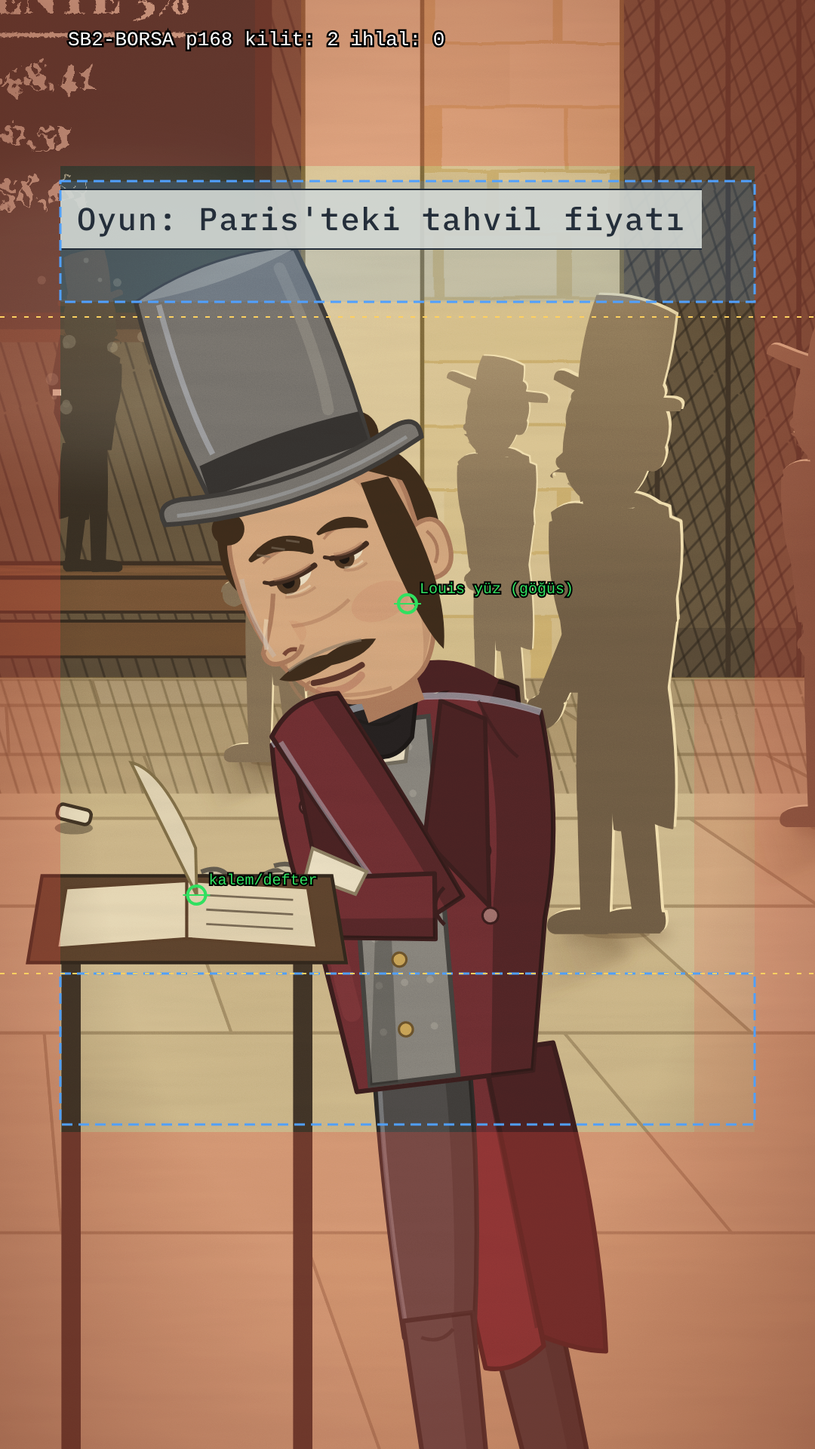
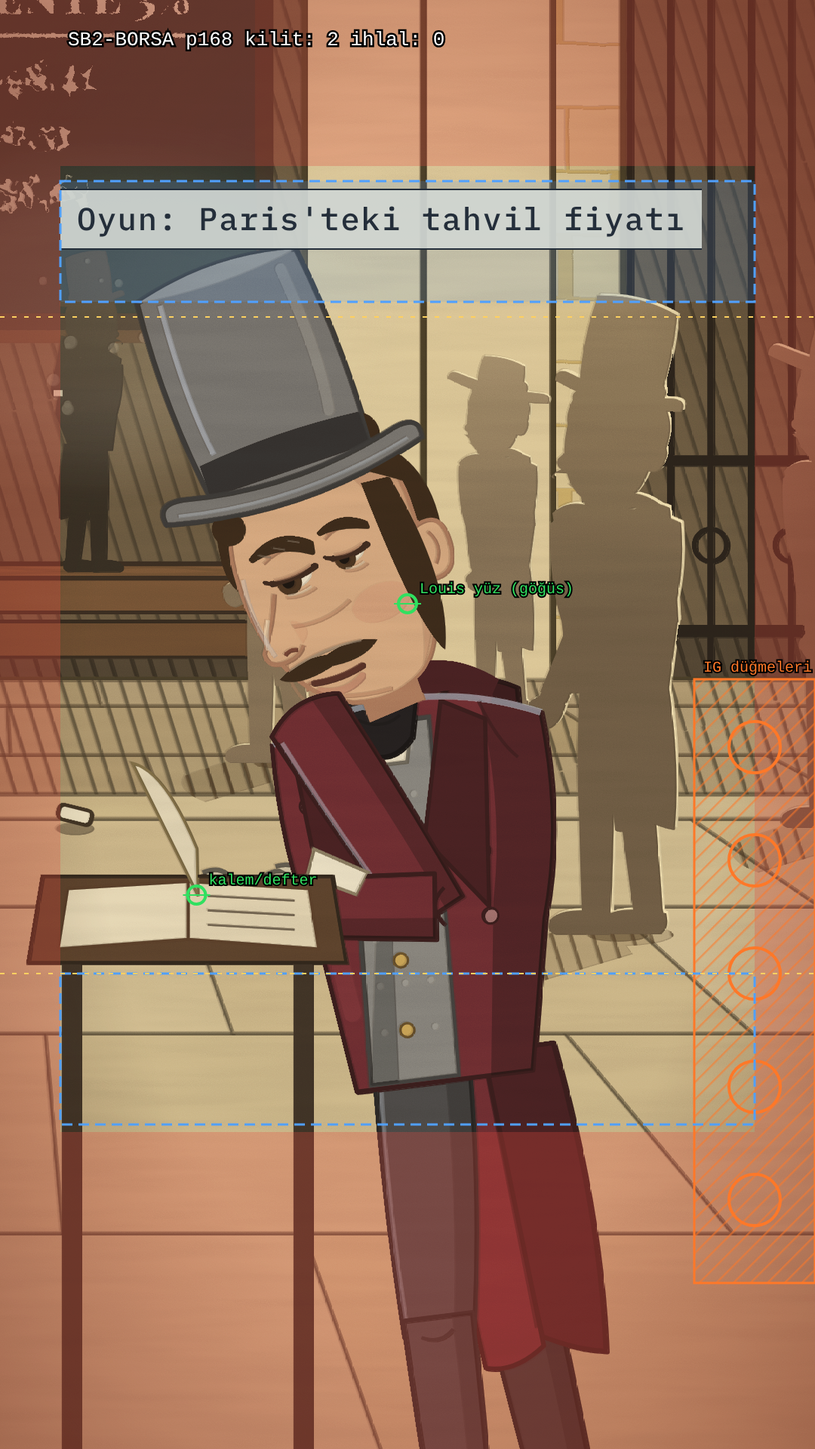
A4 bölüm 1: gravür dili kalibrasyonu, parmaklık, araç/arşiv (motion)
Claude-Session: https://claude.ai/code/session_016TQpGYPviqqYuFeBgNMpFi

diff --git a/src/doku/GuvenliAlan.tsx b/src/doku/GuvenliAlan.tsx
@@ -5,20 +5,23 @@ import { P } from "./sabitler";
 // ===== Güvenli alan + yazı bandı + Instagram arayüzü bindirmesi ve kilit nokta denetimi (eleştiri A, sistemik 3) =====
 // Sahne `guvenli` prop'u ile render edilince bindirme çizilir; kilit noktalar (ayak, temas, kurulum nesnesi, yüz…)
 // otomatik denetlenir. İhlaller kırmızı işaret + sol üstte liste olarak karede görünür ve konsola yazılır.
-export const GUVENLI = { ust: 220, alt: 420, yan: 80, igSag: 160, igSagY: [900, 1500] as [number, number] };
+// igSag: Instagram sağ alt eylem düğmeleri sütunu (beğeni/yorum/paylaş/kaydet/ses) — x 920–1080, y 900–1700 ayrı KİLİT bölgesi
+// (A4, elestiri-C SC3: alt 420 bandına taşan kısmı da işaretlenir; yüz de bu sütuna girmez — göz düğmenin altında kalır).
+export const GUVENLI = { ust: 220, alt: 420, yan: 80, igSag: 160, igSagY: [900, 1700] as [number, number] };
 export const BANTLAR = { ust: [240, 400] as [number, number], alt: [1290, 1490] as [number, number] };
 
 export type KilitTur = "ayak" | "temas" | "kurulum" | "yuz" | "dokunus" | "yazi";
 export type KilitNokta = { ad: string; p: P; tur: KilitTur };
 
-// Kurallar: tüm kilit noktalar y 220–1500, x 80–1000; ayak/temas/kurulum/dokunuş IG sağ sütunda (x>920, y 900–1500) olmaz;
+// Kurallar: tüm kilit noktalar y 220–1500, x 80–1000; ayak/temas/kurulum/dokunuş/YÜZ IG sağ düğme sütununda (x>920, y 900–1700) olmaz;
 // aktif altyazı/yazı bandına düşmez (yazı türü hariç).
 export const kilitKontrol = (k: KilitNokta, aktifBant: "ust" | "alt" | null): string | null => {
   const [x, y] = k.p;
+  // IG düğme sütunu önce: alt banda ya da yan paya da düşse asıl neden bu (ayrı ad)
+  if (k.tur !== "yazi" && x > 1080 - GUVENLI.igSag && y > GUVENLI.igSagY[0] && y < GUVENLI.igSagY[1]) return `${k.ad}: IG sağ düğme sütunu (x ${Math.round(x)}, y ${Math.round(y)})`;
   if (y < GUVENLI.ust) return `${k.ad}: üst 220 içinde (y ${Math.round(y)})`;
   if (y > 1920 - GUVENLI.alt) return `${k.ad}: alt 420 içinde (y ${Math.round(y)})`;
   if (x < GUVENLI.yan || x > 1080 - GUVENLI.yan) return `${k.ad}: yan 80 içinde (x ${Math.round(x)})`;
-  if (k.tur !== "yazi" && k.tur !== "yuz" && x > 1080 - GUVENLI.igSag && y > GUVENLI.igSagY[0] && y < GUVENLI.igSagY[1]) return `${k.ad}: IG sağ buton sütunu (x ${Math.round(x)})`;
   if (k.tur !== "yazi" && aktifBant) { const [a, b] = BANTLAR[aktifBant]; if (y > a && y < b) return `${k.ad}: ${aktifBant === "ust" ? "ÜST" : "ALT"} yazı bandında (y ${Math.round(y)})`; }
   return null;
 };
@@ -36,7 +39,11 @@ export const GuvenliAlan: React.FC<{ noktalar?: KilitNokta[]; aktifBant?: "ust" 
         <rect x={0} y={1920 - GUVENLI.alt} width={1080} height={GUVENLI.alt} fill={kirmizi} />
         <rect x={0} y={GUVENLI.ust} width={GUVENLI.yan} height={1920 - GUVENLI.ust - GUVENLI.alt} fill={kirmizi} />
         <rect x={1080 - GUVENLI.yan} y={GUVENLI.ust} width={GUVENLI.yan} height={1920 - GUVENLI.ust - GUVENLI.alt} fill={kirmizi} />
-        <rect x={1080 - GUVENLI.igSag} y={GUVENLI.igSagY[0]} width={GUVENLI.igSag - GUVENLI.yan} height={GUVENLI.igSagY[1] - GUVENLI.igSagY[0]} fill="rgba(229,72,60,0.16)" />
+        {/* IG sağ düğme sütunu: tam genişlik (920–1080) + düğme yerleri; çizgili, ayrı kilit bölgesi */}
+        <defs><pattern id="igSutun" patternUnits="userSpaceOnUse" width={16} height={16} patternTransform="rotate(45)"><line x1={0} y1={0} x2={0} y2={16} stroke="rgba(255,120,40,0.55)" strokeWidth={5} /></pattern></defs>
+        <rect x={1080 - GUVENLI.igSag} y={GUVENLI.igSagY[0]} width={GUVENLI.igSag} height={GUVENLI.igSagY[1] - GUVENLI.igSagY[0]} fill="url(#igSutun)" stroke="#ff7828" strokeWidth={3} />
+        {[0, 1, 2, 3, 4].map((i) => <circle key={i} cx={1000} cy={GUVENLI.igSagY[0] + 90 + i * 150} r={34} fill="none" stroke="#ff7828" strokeWidth={4} />)}
+        <text x={1076} y={GUVENLI.igSagY[0] - 10} textAnchor="end" fontFamily="monospace" fontSize={20} fill="#ff7828" stroke="#000" strokeWidth={4} paintOrder="stroke">IG düğmeleri</text>
         {(["ust", "alt"] as const).map((b) => <rect key={b} x={GUVENLI.yan} y={BANTLAR[b][0]} width={1080 - 2 * GUVENLI.yan} height={BANTLAR[b][1] - BANTLAR[b][0]} fill={aktifBant === b ? "rgba(80,160,255,0.16)" : "none"} stroke="#50a0ff" strokeWidth={3} strokeDasharray="14 8" />)}
         <line x1={0} y1={420} x2={1080} y2={420} stroke="#ffd060" strokeWidth={2} strokeDasharray="6 10" />
         <line x1={0} y1={1290} x2={1080} y2={1290} stroke="#ffd060" strokeWidth={2} strokeDasharray="6 10" />

diff --git a/src/doku/Cephe.tsx b/src/doku/Cephe.tsx
@@ -1,6 +1,6 @@
 import React from "react";
 import { Kemer, Maskaron } from "./Kemer";
-import { Tarama } from "./Tarama";
+import { Basamak, Tarama } from "./Tarama";
 import { TasDuvar } from "./TasDuvar";
 import { Derinlik, Esleme, MIMARI_KONTUR, P, ink, karistir, murekkep, poly, rnd, tonla } from "./sabitler";
 
@@ -25,7 +25,9 @@ export const BDX_GECE_PALET: CephePalet = { tasGolge: "#5e5646", cam: "#1b2238",
 export const CepheEv: React.FC<{
   m: Esleme; e: EvTanim; seed: number; derinlik: Derinlik; aci: number; palet?: CephePalet;
   kameraH?: number; yakinSusleme?: boolean; dukkanYazi?: (p0: P, p1: P, p3: P, ad: string, renk: string) => React.ReactNode;
-}> = ({ m, e, seed, derinlik, aci, palet = BDX_GECE_PALET, kameraH = 0.9, yakinSusleme, dukkanYazi }) => {
+  // gölge tarafı cephe (A4 G1, elestiri-C: "gölge tarafı cephe II–III"): gövdeye tek yön tarama; açıklıklar ve süs üstte temiz kalır. Uzakta çizilmez.
+  golgeTaraf?: Basamak | null;
+}> = ({ m, e, seed, derinlik, aci, palet = BDX_GECE_PALET, kameraH = 0.9, yakinSusleme, dukkanYazi, golgeTaraf = null }) => {
   const H = evYukseklik(e);
   const W = e.aks * 3.3;
   const P_ = (x: number, y: number): P => m(x / W, 1 - y / H); // metre → ekran (y yerden)
@@ -47,6 +49,7 @@ export const CepheEv: React.FC<{
   // 1) gövde + (yakında) blok dokusu
   els.push(<polygon key="g" points={poly(dik(0, W, 0, kornis[1]))} fill={tas} />);
   if (!uzak) els.push(<TasDuvar key="td" m={em(0, 0, W, kornis[1])} boyut={[W * 60, kornis[1] * 60]} tip="bdx" taban={tas} seed={seed} derinlik={derinlik} yogunluk={yakin ? 0.6 : 0.4} gozenek={false} blok={[36, 18]} />);
+  if (golgeTaraf && !uzak) els.push(<Tarama key="gt" sekil={dik(0, W, 0, kornis[1])} basamak={golgeTaraf} aci={aci} renk={mur} derinlik={derinlik} seed={seed + 90} />);
   if (att) els.push(<polygon key="att" points={poly(dik(0.25, W - 0.25, att[0], att[1]))} fill={tonla(tas, -0.05)} stroke={mk} strokeWidth={KK.ic * 0.6} />);
   // 2) köşe taşı şeridi (ev sınırı)
   for (let i = 0; i < 12 && !uzak; i++) {

diff --git a/src/bolumler/blanc/sb2/Sb2Borsa.tsx b/src/bolumler/blanc/sb2/Sb2Borsa.tsx
@@ -131,7 +131,7 @@ export const Sb2Borsa: React.FC<{ guvenli?: boolean }> = ({ guvenli }) => {
               <KonturTitreme derinlik="orta" seed={S}>
                 {/* ===== arka avlu cephesi: üst kat (dikdörtgen pencereler) + korniş + arcade sırası ===== */}
                 <polygon points={poly([onCephe(-12, 12), onCephe(12, 12), onCephe(12, 0), onCephe(-12, 0)])} fill={PAL.tas} />
-                <TasDuvar m={(u, v) => onCephe(-12 + 24 * u, 12 - 12 * v)} boyut={[2400, 1200]} tip="bdx" taban={PAL.tas} derz={tonla(PAL.tas, -0.42)} seed={S} derinlik="orta" yogunluk={0.5} gozenek={false} blok={[60, 30]} />
+                <TasDuvar m={(u, v) => onCephe(-12 + 24 * u, 12 - 12 * v)} boyut={[2400, 1200]} tip="bdx" taban={PAL.tas} derz={tonla(PAL.tas, -0.34)} seed={S} derinlik="orta" yogunluk={0.5} gozenek={false} blok={[60, 30]} />
                 {/* üst kat: dikdörtgen pencereler (düz söve, kemer YOK) */}
                 {[-3, -2, -1, 0, 1, 2, 3].map((i) => { const x0 = i * AKS - 0.65; const q = [onCephe(x0, 9.9), onCephe(x0 + 1.3, 9.9), onCephe(x0 + 1.3, 7.7), onCephe(x0, 7.7)]; const s = [onCephe(x0 - 0.15, 10.05), onCephe(x0 + 1.45, 10.05), onCephe(x0 + 1.45, 7.6), onCephe(x0 - 0.15, 7.6)]; return <g key={i}><polygon points={poly(s)} fill={tonla(PAL.tas, 0.05)} stroke={MK} strokeWidth={IC} /><polygon points={poly(q)} fill="#3a3a44" />
                   {/* pencere çevresi (A4 G1): söve iç yüzü sol (güneş sağdan → gölge) + lento altı; koyu cam konturu */}

diff --git a/src/bolumler/blanc/proto/Sokak.tsx b/src/bolumler/blanc/proto/Sokak.tsx
@@ -248,7 +248,7 @@ const CepheBdx: React.FC<{ side: "sol" | "sag" }> = ({ side }) => {
           const W = 400, Hh = 60, mm = [(b[0] - a[0]) / W, (b[1] - a[1]) / W, (d[0] - a[0]) / Hh, (d[1] - a[1]) / Hh, a[0], a[1]];
           return <g transform={`matrix(${mm.map((n) => n.toFixed(4)).join(",")})`}><text x={W / 2} y={Hh * 0.8} textAnchor="middle" fontFamily="'Playfair Display', serif" fontWeight={900} fontSize={Hh * 0.85} fill={renk} textLength={W * 0.8} lengthAdjust="spacingAndGlyphs">{ad}</text></g>;
         };
-        return <CepheEv key={i} m={(u, v) => cephe(q, h.z1 + (h.z2 - h.z1) * u, vTop + (1 - vTop) * v)} e={h.e} seed={DOKU_SEED.sokakBdx * 100 + i * 7 + (side === "sol" ? 0 : 3)} derinlik={derin} aci={SOKAK_TARAMA_ACI} kameraH={0.9} yakinSusleme={h.z1 < 2.3} dukkanYazi={yaz} />;
+        return <CepheEv key={i} m={(u, v) => cephe(q, h.z1 + (h.z2 - h.z1) * u, vTop + (1 - vTop) * v)} e={h.e} seed={DOKU_SEED.sokakBdx * 100 + i * 7 + (side === "sol" ? 0 : 3)} derinlik={derin} aci={SOKAK_TARAMA_ACI} golgeTaraf={side === "sol" ? "II" : null} kameraH={0.9} yakinSusleme={h.z1 < 2.3} dukkanYazi={yaz} />;
       })}
     </g>
   );

diff --git a/src/doku/ArsivKatmani.tsx b/src/doku/ArsivKatmani.tsx
@@ -13,8 +13,9 @@ export type ArsivMod = "gunduz" | "gece" | "kagit";
 
 const GREN_OFSET: [number, number][] = [[0, 0], [211, 87], [97, 301], [389, 173], [43, 419], [257, 29], [151, 233], [331, 367]];
 const AYAR: Record<ArsivMod, { lif: number; gren: number; vinyet: string }> = {
-  gunduz: { lif: 0.12, gren: 0.08, vinyet: "rgba(40,24,8,0.42)" },
-  gece: { lif: 0.08, gren: 0.12, vinyet: "rgba(6,6,14,0.58)" },
+  // A4 G5: kâğıt lifi litografi imzası olarak görünür olsun (gündüz .12→.18, gece .08→.13); boya alanlarında +.04 (11.3)
+  gunduz: { lif: 0.18, gren: 0.08, vinyet: "rgba(40,24,8,0.42)" },
+  gece: { lif: 0.13, gren: 0.12, vinyet: "rgba(6,6,14,0.58)" },
   kagit: { lif: 0.18, gren: 0.08, vinyet: "rgba(40,24,8,0.42)" },
 };
 

diff --git a/tools/sb2_kontrol.py b/tools/sb2_kontrol.py
@@ -5,7 +5,12 @@ tek kontrol sayfası (contact sheet).
 
 Kullanım:  python3 tools/sb2_kontrol.py            (render + ölçüm + sayfa)
            python3 tools/sb2_kontrol.py --olcum    (yalnız ölçüm + sayfa, mevcut PNG'lerden)
-Çıktı:     storyboard-v2/kareler/{ID}-p{N}.png, -360.png, -guvenli.png, renk-olcum.md, A3-sayfa.png
+           python3 tools/sb2_kontrol.py --sadece SB2-BORSA:0,90,168 SB2-SOKAK:0   (yalnız bu kareleri render et)
+           python3 tools/sb2_kontrol.py --gravur   (A4 G6: mood-05 | Borsa | Sokak | Tours, 360 px karşılaştırma sayfası)
+           --asama A4  (sayfa adı: {asama}-sayfa.png; varsayılan A4)
+Çıktı:     storyboard-v2/kareler/{ID}-p{N}.png, -360.png, -guvenli.png, renk-olcum.md, {asama}-sayfa.png, A4-gravur-karsilastirma.png
+Ad kuralı: her kare plan içi kare numarasıyla (-p{N}); NUMARASIZ ad üretilmez (A2 kalıntıları kareler/arsiv/A2/).
+Henüz Root'ta kayıtlı olmayan kompozisyonlar (ör. P04 fare insert) uyarıyla atlanır; yeri protokolde ayrılmıştır.
 """
 import math, os, subprocess, sys, time
 from PIL import Image, ImageDraw, ImageFont
@@ -18,6 +23,9 @@ KARELER = {
     "SB2-TOURS": [(0, "ilk kare"), (54, "T SAK yerleşir"), (60, "paket açık (stil)"), (140, "eldiven bırakma (temas)"), (155, "kapanış")],
     "SB2-SOKAK": [(0, "ilk kare"), (150, "push-in başı"), (189, "göz kırpma (yüz ≥230 px)"), (215, "kapanış")],
     "SB2-BORSA": [(0, "ilk kare + etiketler"), (90, "tebeşir kırılır (temas)"), (102, "sekme 1 (temas)"), (168, "Louis göğüs"), (203, "kapanış (PARIS başlığı)")],
+    # P04 dokunuşu (baston–fare, TAK p108) — elestiri-C SC7. Kompozisyon A4 bölüm 2'de kaydedilecek (FareInsert yeniden kadraj);
+    # kareler P04 plan içi numarasıyla. Kayıtlı değilse atlanır.
+    "SB2-SOKAK-FARE": [(87, "fare ızgaradan çıkar (insert ilk)"), (108, "TAK: baston–taş (temas, dokunuş)"), (138, "kuyruk ızgarada kaybolur (kapanış)")],
 }
 
 # Ölçüm: (kompozisyon, kare, ad, x, y, hedef hex, kaynak, |ΔL| tol, ΔE tol)
@@ -33,6 +41,8 @@ NOKTALAR = [
     ("SB2-BORSA", 0, "avlu taşı (güneşte)", 540, 1500, "#d4c29a", "BORSA avlu taşı", 14, 12),
     ("SB2-BORSA", 0, "portik derin gölge", 140, 820, "#4a3e2c", "BORSA portik", 16, 14),
     ("SB2-BORSA", 90, "kara tahta", 450, 640, "#1f2a26", "tahta", 12, 12),
+    # A4 (elestiri-C 8 · Renk): her mekânda bir gölge (III) bölgesi — gölge iskeleti ton bloğu olarak okunuyor mu
+    ("SB2-BORSA", 0, "galeri tonoz gölgesi (III)", 600, 560, "#4a3e2c", "BORSA portik", 16, 14),
 ]
 
 def hex2rgb(h): h = h.lstrip("#"); return tuple(int(h[i:i + 2], 16) for i in (0, 2, 4))
@@ -60,9 +70,27 @@ def de2000(l1, l2):
 
 def ad(kid, fr, ek=""): return os.path.join(KARE, f"{kid}-p{fr}{ek}.png")
 
+def kayitli():
+    """Root'ta kayıtlı kompozisyon kimlikleri (remotion compositions -q; --log=error ile çıktı boş kalır)."""
+    r = subprocess.run(["npx", "remotion", "compositions", "-q"], cwd=KOK, capture_output=True, text=True)
+    return set(r.stdout.split())
+
+def secim():
+    """--sadece ID:kare,kare ... → {ID: [kare]}; yoksa tüm protokol."""
+    if "--sadece" not in sys.argv: return {k: [f for f, _ in v] for k, v in KARELER.items()}
+    out = {}
+    for a in sys.argv[sys.argv.index("--sadece") + 1:]:
+        if a.startswith("--"): break
+        kid, _, kr = a.partition(":")
+        out[kid] = [int(x) for x in kr.split(",")] if kr else [f for f, _ in KARELER[kid]]
+    return out
+
 def render():
-    for kid, liste in KARELER.items():
-        for fr, _ in liste:
+    var = kayitli()
+    for kid, liste in secim().items():
+        if kid not in var:
+            print(f"UYARI: {kid} Root'ta kayıtlı değil — atlandı (protokolde yeri ayrıldı)", flush=True); continue
+        for fr in liste:
             for ek, props in (("", None), ("-guvenli", '{"guvenli":true}')):
                 cmd = ["npx", "remotion", "still", kid, ad(kid, fr, ek), f"--frame={fr}", "--log=error"]
                 if props: cmd.append(f"--props={props}")
@@ -70,12 +98,13 @@ def render():
             Image.open(ad(kid, fr)).convert("RGB").resize((360, 640), Image.LANCZOS).save(ad(kid, fr, "-360"))
 
 def olc():
-    s = ["# Renk ölçüm tablosu (A3 · derecelendirme sonrası, 9×9 px ortalama)", "",
+    s = ["# Renk ölçüm tablosu (A3/A4 · derecelendirme sonrası, 9×9 px ortalama; TOURS p60 A3 karesi — A4 bölüm 1'de yeniden render edilmedi)", "",
          "Hedef = mekanlar.md malzeme rengi. L* = CIELAB parlaklık; ΔE = CIEDE2000; ΔH° = ölçülen − hedef ton açısı (a*b*), "
          "C* düşükse (< 10, nötr) ton açısı anlamsız → '—'. Geçme: |ΔL*| ≤ tol_L VE ΔE ≤ tol_E VE (nötr değilse) |ΔH°| ≤ 25.", "",
          "| Kompozisyon | Kare | Nokta | (x,y) | Ölçülen | Hedef | Kaynak | L* ölç/hedef | ΔL* | C* ölç/hedef | ΔH° | ΔE00 | Sonuç |",
          "|---|---|---|---|---|---|---|---|---|---|---|---|---|"]
     for kid, fr, nad, x, y, hedef, kaynak, tL, tE in NOKTALAR:
+        if not os.path.exists(ad(kid, fr)): continue
         im = Image.open(ad(kid, fr)).convert("RGB")
         px = [im.getpixel((min(1079, max(0, x + dx)), min(1919, max(0, y + dy)))) for dx in range(-4, 5) for dy in range(-4, 5)]
         ort = tuple(round(sum(p[i] for p in px) / len(px)) for i in range(3))
@@ -88,23 +117,55 @@ def olc():
     open(os.path.join(KARE, "renk-olcum.md"), "w").write("\n".join(s) + "\n")
     print("\n".join(s))
 
-def sayfa():
+def yazi_tipi(n=15):
+    try: return ImageFont.truetype("DejaVuSans.ttf", n)
+    except Exception: return ImageFont.load_default()
+
+def sayfa(asama="A4"):
     W, H, PAD, BAS = 216, 384, 10, 30
-    sut = max(len(v) for v in KARELER.values()) * 2
-    img = Image.new("RGB", (PAD + sut * (W + PAD), PAD + len(KARELER) * (H + BAS + PAD)), (24, 22, 20))
-    d = ImageDraw.Draw(img)
-    try: font = ImageFont.truetype("DejaVuSans.ttf", 15)
-    except Exception: font = ImageFont.load_default()
-    for r, (kid, liste) in enumerate(KARELER.items()):
+    sec = secim()
+    satir = [(kid, [(fr, acik) for fr, acik in KARELER.get(kid, []) if fr in sec.get(kid, []) and os.path.exists(ad(kid, fr))]) for kid in KARELER]
+    satir = [(k, v) for k, v in satir if v]
+    if not satir: return
+    sut = max(len(v) for _, v in satir) * 2
+    img = Image.new("RGB", (PAD + sut * (W + PAD), PAD + len(satir) * (H + BAS + PAD)), (24, 22, 20))
+    d = ImageDraw.Draw(img); font = yazi_tipi()
+    for r, (kid, liste) in enumerate(satir):
         y = PAD + r * (H + BAS + PAD)
         for c, (fr, acik) in enumerate(liste):
             for j, ek in enumerate(("", "-guvenli")):
                 x = PAD + (2 * c + j) * (W + PAD)
-                img.paste(Image.open(ad(kid, fr, ek)).convert("RGB").resize((W, H), Image.LANCZOS), (x, y + BAS))
+                if os.path.exists(ad(kid, fr, ek)): img.paste(Image.open(ad(kid, fr, ek)).convert("RGB").resize((W, H), Image.LANCZOS), (x, y + BAS))
             d.text((PAD + 2 * c * (W + PAD), y + 6), f"{kid} p{fr} · {acik}", fill=(236, 226, 200), font=font)
-    img.save(os.path.join(KARE, "A3-sayfa.png"))
-    print("sayfa:", os.path.join(KARE, "A3-sayfa.png"), img.size)
+    yol = os.path.join(KARE, f"{asama}-sayfa.png"); img.save(yol); print("sayfa:", yol, img.size)
+
+MOOD = os.path.join(KOK, "bolumler/blanc-kardesler/storyboard-v2/mood/mood-05-gravur-sokak-bordeaux.png")
+ARSIV_A3 = os.path.join(KARE, "arsiv/A3")
+
+def gravur_sayfa():
+    """A4 G6 kabul testi: 360 px (telefon) yan yana — üst satır A3 (önce), alt satır A4 (sonra); ilk sütun mood-05.
+    Mood 9:16'ya kırpılmaz, 360 genişliğe ölçeklenir (kâğıt bandı dahil). Altında 2× büyütülmüş ayrıntı şeridi (360'tan, piksel kopyası)."""
+    W, H, PAD, BAS = 360, 640, 14, 34
+    sut = [("mood-05 (yön)", None), ("BORSA p0", ("SB2-BORSA", 0)), ("BORSA p90", ("SB2-BORSA", 90)), ("SOKAK p0", ("SB2-SOKAK", 0)), ("TOURS p0", ("SB2-TOURS", 0))]
+    satirlar = [("A3 (önce)", ARSIV_A3), ("A4 (sonra)", KARE)]
+    img = Image.new("RGB", (PAD + len(sut) * (W + PAD), PAD + len(satirlar) * (H + BAS + PAD) + 60), (24, 22, 20))
+    d = ImageDraw.Draw(img); font = yazi_tipi(18)
+    mood = Image.open(MOOD).convert("RGB"); mood = mood.resize((W, round(mood.height * W / mood.width)), Image.LANCZOS)
+    for r, (etiket, klasor) in enumerate(satirlar):
+        y = PAD + 60 + r * (H + BAS + PAD)
+        for c, (bas, kaynak) in enumerate(sut):
+            x = PAD + c * (W + PAD)
+            if kaynak is None: img.paste(mood.crop((0, (mood.height - H) // 2, W, (mood.height - H) // 2 + H)), (x, y + BAS))
+            else:
+                yol = os.path.join(klasor, f"{kaynak[0]}-p{kaynak[1]}.png")
+                if os.path.exists(yol): img.paste(Image.open(yol).convert("RGB").resize((W, H), Image.LANCZOS), (x, y + BAS))
+                else: d.text((x + 10, y + BAS + 10), "(yok)", fill=(200, 80, 60), font=font)
+            d.text((x, y + 6), f"{etiket} · {bas}", fill=(236, 226, 200), font=font)
+    d.text((PAD, 18), "A4 G6 · gravür kabul testi (360 px telefon) — (a) her mekânda ≥3 yerde tarama seçilir (b) kafes/örgü yok (c) mood-05 ile aynı aile", fill=(255, 210, 120), font=font)
+    yol = os.path.join(KARE, "A4-gravur-karsilastirma.png"); img.save(yol); print("gravür sayfası:", yol, img.size)
 
 if __name__ == "__main__":
+    asama = sys.argv[sys.argv.index("--asama") + 1] if "--asama" in sys.argv else "A4"
+    if "--gravur" in sys.argv: gravur_sayfa(); sys.exit(0)
     if "--olcum" not in sys.argv: render()
-    olc(); sayfa()
+    olc(); sayfa(asama)

diff --git a/bolumler/blanc-kardesler/katki-raporu.md b/bolumler/blanc-kardesler/katki-raporu.md
@@ -622,3 +622,117 @@ Her ajan görev sonunda buraya ekler (bkz. CLAUDE.md).
   - YARATICI YÖNETMEN: dokunuslar.md P19 ve süreklilik notu (memur cep köşesi yok) güncellensin; P18 cep köşesi ≥ 30×18 px.
   - MOTION: `palet.ts` (FRANCOIS_TABA, LOUIS_ELSIZ P02–P18, LOUIS_ELDIVENLI, GLOVE), `Louis.cepEldiven` → `EldivenKose` overlay, `Eldiven.tsx` ölçek ×1.35–1.45 (TC1), rig varsayılan `glove` değerini koyu/ten yap, `sb2_kontrol.py`'ye "eldiven beyazı yalnız A/B/C" + taba ΔE2000 ≥ 20 kontrolü. `louis-kart.png`/`francois-kart.png` eldiven rengi referans olarak kullanılmasın.
   - ELEŞTİRMEN: protokolde cep köşesinin telefon (360) okunurluğu ve P19 çıplak → hero karşıtlığı satır olarak girsin.
+
+## motion · 2026-11-06 · Storyboard v2 AŞAMA A4 (bölüm 1): gravür dili kalibrasyonu (G1–G6) + Borsa parmaklık + araç/arşiv
+- **Ne yaptım:**
+  - **Tarama modülü (G1, G2):**
+    - Ölçü telefona göre: yakın 7.5 px aralık / 2.2 px çizgi, orta 9 / 1.6, uzak 12 / 1.1.
+    - III/IV basamağı şeklin altına mürekkep renginde **ton bloğu** koyuyor (gölge önce ton olarak okunur).
+    - IV çapraz tarama yalnız ekran kutusu ≤ 120×120 px olan şekillerde, ikinci yön +40°. Büyük IV otomatik olarak sık tek yön + koyu tona dönüyor. Geniş alanda kafes ya da tel örgü artık modül düzeyinde çizilemiyor.
+    - `evenodd` desteği eklendi.
+  - **RenkKaydi gerçek oldu (G5):** eskiden yalnız `translate`'ti. Artık tüm plakaya filtre uyguluyor:
+    - koyu mürekkep pikselleri yerinde kalıyor, renk katmanı +1.5/+1 px kayıyor;
+    - renk sınırlarında α .14 suluboya kenarı;
+    - derinlik sırası bozulmuyor.
+    - Üç sahneye de uygulandı; yazılar filtrenin dışında.
+  - **Kâğıt lifi (G5):** `ArsivKatmani` lif opaklığı gündüz .12→.18, gece .08→.13. Yalnız sb2 sahneleri kullanıyor.
+  - **İç kontur (G3):**
+    - `murekkep()` eklendi (dolgu L×0.28; `ink` ×0.45 açık kalıyordu).
+    - `MIMARI_KONTUR` aile tablosu eklendi (orta: dış 5 / iç 3).
+    - Kemer ve Cephe konturları bu aileye geçti: kemer, söve, silme, korniş, konsol, attique.
+  - **Kemer `icYuz` (G1):** açıklığın iç yüzü (söve + kemer içi), arka kenarın kaçış noktasına kayması ile çiziliyor. Görünen bant ton + III tarama + koyu kontur alıyor; açıklık içi çizimin önünde kalıyor.
+  - **Atılan gölge (G4):** `Golge stil="gravur"`. Net kenarlı gövde çokgeni + ayak altı elips, ton + Tarama III, koyu çekirdek, blur yok. Varsayılan "yumusak" kaldı, Proto değişmedi.
+  - **Cephe:**
+    - pencere çevresi: sol söve iç yüzü + lento altı III, koyu cam konturu;
+    - `golgeTaraf` prop'u: gölge tarafı cephe II, Sokak'ta sol sıra;
+    - balkon altı ve korniş altı modül kuralıyla sık tek yöne döndü (SC8 elmas kafes kalktı).
+  - **SB2-BORSA:**
+    - (BC1) yan arcade parmaklıkları **dövme demir dikey çubuk**: ≈0.2 m aralık, mızrak uçlu, alt/orta/üst kuşak, orta kuşakta seyrek halka. Duvar kalınlığının ortasında duruyor, söve iç yüzü önünü örtüyor.
+    - Kemer içi bandı III.
+    - Portik içi ton iskeleti: galeri duvarı II, üstü tonoz gölgesi III, zemin III. Büyük alanda çapraz yok.
+    - Alınlık alt gölgesi.
+    - **Pilastrlar** (mimari kart "pilastr aralarında"): −x yüzü gölgede III, duvara atılan gölge şeridi, başlık silmesi.
+    - Korniş altı IV bandı.
+    - Üst kat pencere söveleri.
+    - Taş derzi koyulaştırıldı (−0.34).
+    - Karakter ve kompars gölgeleri gravür stiline geçti.
+    - Portik zemin gölgesinin net kenarı.
+    - (BC5 kısmi) **ön portik** yeniden kuruldu: ayak gövdesi III, iç kenarda ışık pahı + koyu siluet, imposte + altı, kadraj tepesinde kemer başlangıcı (intrados IV), zeminde güneş sınırı + derzler, tezgâh konturlu, kapı kanadı aynı dövme demir dilinde.
+  - **SOKAK / TOURS:** yalnız modül yansıması. Ek olarak RenkKaydi, Sokak'ta gravür gölge ve sol sıra `golgeTaraf="II"`, Tours'ta gölge deseni yeni ölçü. Plan düzeyinde değişiklik yok.
+  - **Araç:**
+    - `GuvenliAlan` IG sağ düğme sütunu ayrı kilit bölgesi: x 920–1080, y 900–1700, alt banda taşan kısım dahil. Yüz de denetleniyor. Çizgili bölge + düğme halkaları + "IG düğmeleri" etiketi var.
+    - `sb2_kontrol.py`:
+      - `--sadece ID:kareler` (alt küme render);
+      - kayıtlı olmayan kompozisyonu uyarıyla atlama;
+      - **P04 fare insert yuvası** `SB2-SOKAK-FARE` p87 / p108 / p138 (kompozisyon A4 bölüm 2'de kaydedilecek);
+      - `--gravur` → `A4-gravur-karsilastirma.png` (A3 önce / A4 sonra × mood-05 | Borsa p0 | Borsa p90 | Sokak p0 | Tours p0, 360 px);
+      - sayfa adı aşamaya göre (`A4-sayfa.png`);
+      - renk ölçümüne Borsa gölge (III) noktası.
+  - **Arşiv:**
+    - Numarasız 9 A2 dosyası `git mv` ile `kareler/arsiv/A2/` altına taşındı.
+    - Üzerine yazılan A3 kareleri (Borsa p0/p90/p168, Sokak p0, Tours p0 × tam/360/güvenli) `kareler/arsiv/A3/` altına kopyalandı (önce/sonra karşılaştırması için).
+  - **Render (yalnız still):** SB2-BORSA p0, p90, p168; SB2-SOKAK p0; SB2-TOURS p0. Her biri tam + 360 + güvenli.
+  - `npx tsc --noEmit` temiz.
+  - **Proto kontrolü:** f200 ve f600, değişiklik öncesi referansla karşılaştırıldı. Fark ≤ 1 seviye, >8 seviye piksel sayısı 0. Bozulmadı.
+- **Dokunduğum dosyalar:**
+  - `src/doku/{Tarama.tsx, Kemer.tsx, Cephe.tsx, Isik.tsx, ArsivKatmani.tsx, GuvenliAlan.tsx, sabitler.ts}`
+  - `src/bolumler/blanc/sb2/{Sb2Borsa, Sb2Sokak, Sb2Tours}.tsx`
+  - `src/bolumler/blanc/proto/Sokak.tsx` (yalnız Bordeaux `CepheBdx` çağrısı)
+  - `tools/sb2_kontrol.py`
+  - `bolumler/blanc-kardesler/storyboard-v2/kareler/`: `SB2-BORSA-p{0,90,168}*`, `SB2-SOKAK-p0*`, `SB2-TOURS-p0*`, `A4-sayfa.png`, `A4-gravur-karsilastirma.png`, `renk-olcum.md`, `arsiv/A2/*`, `arsiv/A3/*`
+- **Değişen parametreler (yönetmen / mekân sorumlusu 11.2'ye işlesin):**
+
+| Modül / öğe | Önce (A3 / 11.2) | A4 | Gerekçe | Durum |
+|---|---|---|---|---|
+| Tarama aralığı yakın / orta / uzak | 6 / 8 / 11 px | 7.5 / 9 / 12 px | G2, telefonda çizgi ayrışsın | onay bekliyor (11.2) |
+| Tarama kalınlığı yakın / orta / uzak | 1.4 / 1.1 / 0.8 px | 2.2 / 1.6 / 1.1 px | G2, 360'ta ≥ 0.5 px | onay bekliyor |
+| Tarama alfası II / III / IV | .30 / .55 / .55 | .40 / .62 / .70 | ton yoğunluğu | bilgi |
+| Ton bloğu II / III / IV | yok | 0 / .16 / .28 (mürekkep) | G1 "önce ton" | bilgi |
+| IV ikinci yön | +60°, her boyutta | +40°, yalnız ≤ 120×120 px; büyük IV → III sık (×0.75 aralık) | G2, kafes yasağı | onay bekliyor |
+| Kalınlık kuralı | ≤ kontur/3 | ≤ kontur/2 | G2 | onay bekliyor |
+| Mimari kontur (orta) | ≈ 1–2 px, `ink` (L×.45) | iç 3 / dış 5 px, `murekkep` (L×.28); yakın 4.4 / 6 | G3 | onay bekliyor |
+| Kemer kontur varsayılanı | 2 | 3 | G3 | bilgi |
+| RenkKaydi | translate (kullanılmıyordu) | filtre: mürekkep sabit, renk +1.5/+1, suluboya kenarı α .14, eşik Y .26 | G5 | bilgi |
+| Kâğıt lifi gündüz / gece | .12 / .08 | .18 / .13 | G5 | bilgi |
+| Borsa duvar kalınlığı (kemer içi) | — | 0.6 m | iç yüz bandı | bilgi |
+| Borsa pilastr | yok | 0.7 m genişlik, 0.15 m çıkıntı, ±2.25 / ±6.75 / ±11.25 m | mimari kart 10.1 "pilastr aralarında" | onay bekliyor |
+| Borsa parmaklık | 9 dikey çizgi + IV arka | 0.2 m aralık çubuk, mızrak uç, kuşak 0.15 / 1.0 / 4.0 m, orta kuşakta halka, z = ön + 0.3 m | BC1, dönem dövme demir | halka süsü onay bekliyor |
+| Borsa taş derzi | `tonla(taş, −0.28)` | `tonla(taş, −0.34)` | blok çizgisi telefonda seçilsin | bilgi |
+| Sokak sol sıra | düz dolgu | `golgeTaraf="II"` | elestiri-C "gölge tarafı cephe" | onay bekliyor (gölge tarafı seçimi) |
+| IG sağ sütun kilidi | x > 920, y 900–1500, yüz hariç | x 920–1080, y 900–1700, yüz dahil | SC3 / koşul 5 | bilgi |
+
+- **Kabul ölçütlerine karşı (elestiri-C, A4 bölüm 1 kapsamı):**
+
+| Madde | Durum | Not |
+|---|---|---|
+| G1 gölge iskeleti önce | **kısmi-geçti** | Borsa: kemer içi, galeri tonozu, portik zemini, pilastr gölge yüzü + atılan gölge, korniş altı, pencere sövesi, alınlık altı. Cephe modülü: pencere çevresi, gölge tarafı. Tours'ta kiriş altı / masa altı planlanmadı (bölüm 2). |
+| G2 telefon ölçüsü + IV sınırı | **geçti** | 360 sayfasında elmas / kafes deseni yok (Sokak korniş / balkon altı dahil). |
+| G3 iç kontur | **geçti (Borsa, Sokak)** / kısmi (Tours) | Tours'ta yalnız lucarne kemeri modülden geliyor. Kiriş ve masa konturları sahneye özel, bu bölümde dokunulmadı. |
+| G4 net taramalı gölge | **geçti (Borsa, Sokak)** | Tours el / eldiven gölgesi KolEl deseniyle zaten taramalı. Katman sırası sorunu (TC5) bölüm 2'de. |
+| G5 RenkKaydi + kâğıt | **geçti (teknik)** / telefonda **zayıf** | 1.5 px kayma 360'ta 0.5 px'e iniyor; imza tam boyda görünür. Lif artışı ölçümde ≤ 1 L* oynattı, telefonda belli belirsiz. |
+| G6 (a) her mekânda ≥ 3 yerde tarama seçilir (360) | Borsa **✓**, Sokak **✓**, Tours **sınırda** | Borsa: ön ayaklar, kemer içi bantları, galeri duvarı, gölgeler, parmaklık. Sokak: sol cephe, korniş altı, söveler. Tours: lucarne yanağı, el gölgesi, masa önü; 360'ta soluk. |
+| G6 (b) kafes / örgü yok | **✓** | modül kuralı |
+| G6 (c) mood-05 ile aynı aile | **kısmi** | Mimari artık mürekkeple çizili okunuyor. Mood'un ayrıntı yoğunluğu (konsol, maskaron, kepenk, katman başına renk yıkaması) ve rig'in çizgi film dili arasındaki fark sürüyor. Karakterler hâlâ "ayrı dünya"dan duruyor; bu rig düzeyi bir iş. |
+| BC1 tel örgü → dikey dövme demir | **✓** | p0 / p90 / p168 |
+| BC5 portik çerçevesi letterbox | **kısmi-geçti** | Ayak, imposte, kemer başlangıcı ve güneş sınırı okunuyor. Tezgâh hâlâ kırpık (planı yönetmende). |
+| BC6 bulanık gölge, kemer içi | **✓** | |
+| SC8 kafes | **✓** | |
+| Araç: A2 arşiv, IG sütunu, fare insert yuvası | **✓** | Fare kompozisyonu kayıtlı değil; araç uyarıyla atlıyor. |
+| Renk ölçümü | 12/12 ✓ | Borsa gölge (III) noktası eklendi (L* 25 / 27). Sokak "cephe TAS-BDX" noktası (120,700) artık gölge tarafını ölçüyor (L* 43, A3'te 50). Işıktaki Bordeaux taşı için noktayı sağ sıraya taşımak doğru olur. |
+
+- **Yakaladığım ihlaller (öz tarama):**
+  - **Tours p0 güvenli alan:** "TOURS etiketi" (x 939, y 1622) IG düğme sütununda. Bu ihlal A3'te de vardı ("alt 420" olarak). A3 raporundaki "tüm protokol karelerinde ihlal 0" ifadesi **yanlıştı**. Plan düzeyi; bölüm 2'de etiket x ≤ 900 ve y ≤ 1500 olmalı.
+  - **Sokak zemin arcade'ları:** basık kemer + kilit taşı, sokak perspektifinde sıyırma açısından bakınca **sivri kemer** gibi okunuyor (360'ta da). İskelet "basık" ama okuma gotik. Mekân sorumlusu / eleştirmen baksın. Öneri: yakın evlerde kilit taşını küçültmek, ya da basık yükseltiyi 0.13→0.10'a indirmek.
+  - **Borsa p168:** tarama dünya biriminde ölçeklendiği için cs 2.8'de ≈ 25 px aralık / 4.5 px çizgi, iri. Şartnameye uygun ("pişirilmiş plaka ölçeklenir") ama göğüs planında kaba duruyor. Yakın plan kesmesinde plaka `derinlik="yakin"` ile yeniden çizilebilir (karar mekân sorumlusunda).
+  - Renk ölçüm tablosundaki TOURS p60 satırları A3 karesinden. Bu bölümde yeniden render edilmedi; tabloda not düşüldü.
+- **Öz puan (geçmiş eğilimimi ~1 düşerek):**
+  - Gravür dili telefonda: Borsa **6/10**, Sokak **6/10**, Tours **5/10**.
+  - Kompozisyonlar (plan kritikleri açık): Borsa **6/10**, Sokak **7/10**, Tours **6.5/10**.
+  - Gravür yönü artık "düz vektör"den ayrışıyor ama mood-05 ailesine tam girmedi.
+- **Açık sorular / bir sonraki ajana notlar:**
+  - **Eleştirmen:** G6 için `kareler/A4-gravur-karsilastirma.png` (üst satır A3, alt satır A4). Karar verilmesi gereken iki soru:
+    - (1) Yön yeterli mi, yoksa ikinci adım mı gerekli: ayrıntı yoğunluğu (konsol, maskaron, söve profili) ve renk yıkaması (degrade yasağının panel içi gevşetilmesi)?
+    - (2) Rig ile mimari arasındaki "iki dünya" farkı için rig'e de mürekkep ailesi / gölge taraması uygulanacak mı? 11.2 şu an rig'e taramayı yasaklıyor.
+  - **Mekân sorumlusu:** 11.2 tablosunu yukarıdaki değerlerle güncellesin (aralık, kalınlık, IV +40° ≤ 120 px, kontur/2, `murekkep`). Ayrıca karar gerekenler: pilastr, parmaklık halka süsü, Sokak gölge tarafı seçimi, sivri okunan basık arcade.
+  - **Motion A4 bölüm 2:** TC1–TC5, BC2 (tahta insert), BC3 (yazan el), SC1/SC2/SC4/SC6, FareInsert kompozisyonunu `SB2-SOKAK-FARE` adıyla kaydedip p87/p108/p138 protokolü, Tours etiketi IG sütunu, Tours kiriş / masa altı gölge iskeleti.
+  - **Teknisyen:** commit yapılmadı. A2 taşıması `git mv` ile sahnelendi; `arsiv/A3/` ve `A4-*.png` izlenmiyor.
